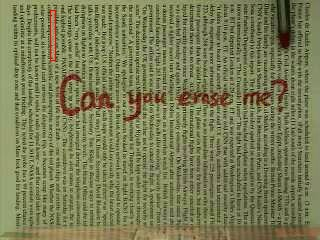
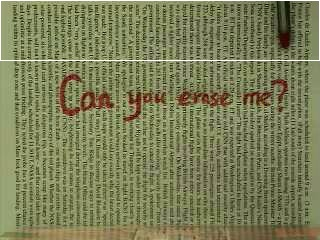
Normalized r

Changed region(s): [[0.0, 0.0, 1.0, 0.2625]]

diff --git a/tracking.py b/tracking.py
@@ -7,11 +7,19 @@ def find_pen():
     xmin = wid
     ymin = hgt
     xmax = 0
-    ymax = 0
+    ymax = 60
 
     for x in range(wid):
         for y in range(60):
-            if image[x][y][2] > 200:
+            r = image[y][x][2]
+            g = image[y][x][0]
+            b = image[y][x][1]
+            if (r+g+b) == 0:
+                normalized_r = 0
+            else:
+                normalized_r = r/(r+g+b)
+                
+            if normalized_r > 0.5:
                 if x < xmin:
                     xmin = x
                 if y < ymin:

diff --git a/main.py b/main.py
@@ -3,4 +3,4 @@ import tracking
 
 video.decomposeVideo("Original.avi", "original_frames", 400)
 
-tracking.draw_rect()
+tracking.find_pen()
